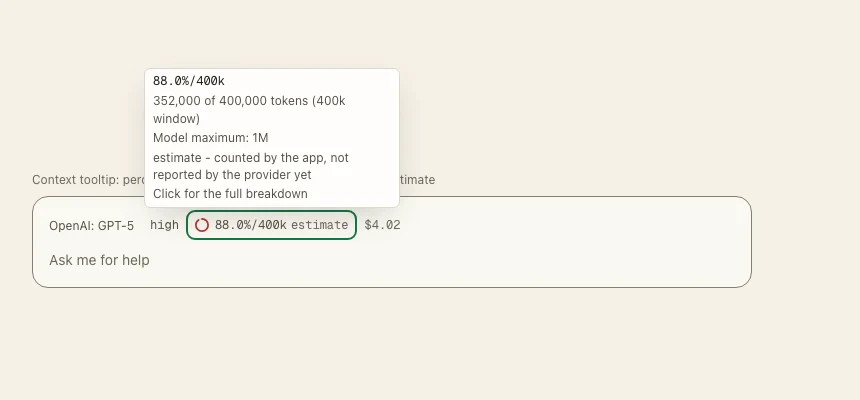
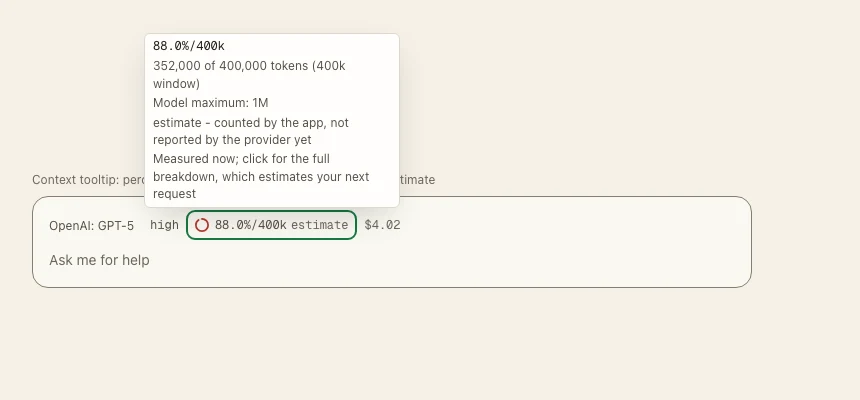
fix(chat): name both context numbers in the wheel's tooltip
The chip reads what has been MEASURED so far; the breakdown it opens estimates
the NEXT request, so the two legitimately differ (3.1% against 4.0% in the
reported case). The duality is inherited verbatim from the Python `/context`
and is not new, but the chip is now the primary way users reach that view, so
the pairing is seen far more often than it was (UX round 1, U7).

Naming both before the user meets the second one costs a few words and removes
the only reading in the strip that looks like it contradicts itself.

Tooltip frames re-captured; the committed frame is a picture of this copy.

Changed region(s): [[0.1814, 0.15, 0.4535, 0.51], [0.1814, 0.09, 0.2721, 0.12]]

diff --git a/src/renderer/src/features/chat/session-status/session-status-strip.tsx b/src/renderer/src/features/chat/session-status/session-status-strip.tsx
@@ -318,7 +318,17 @@ export const SessionStatusStrip: FC<SessionStatusStripProps> = ({
 									? model.max_context_window
 									: null,
 							),
-							"Click for the full breakdown",
+							/*
+							 * Names both numbers before the user meets the second one.
+							 * This reading is what has been MEASURED so far; the
+							 * breakdown behind it estimates the NEXT request, so the
+							 * two legitimately differ (3.1% here, 4.0% there). The
+							 * duality is inherited from the Python `/context` and is
+							 * not new — but the chip makes it the primary way users
+							 * reach that view, so the pairing is now seen far more
+							 * often (UX round 1, U7).
+							 */
+							"Measured now; click for the full breakdown, which estimates your next request",
 						]}
 					/>
 				}
